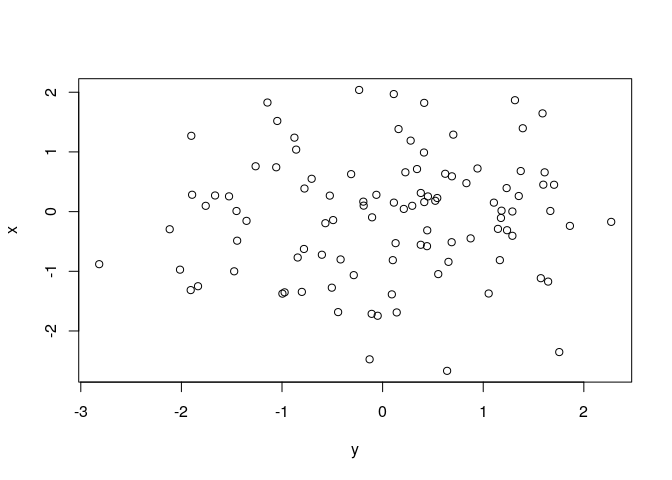
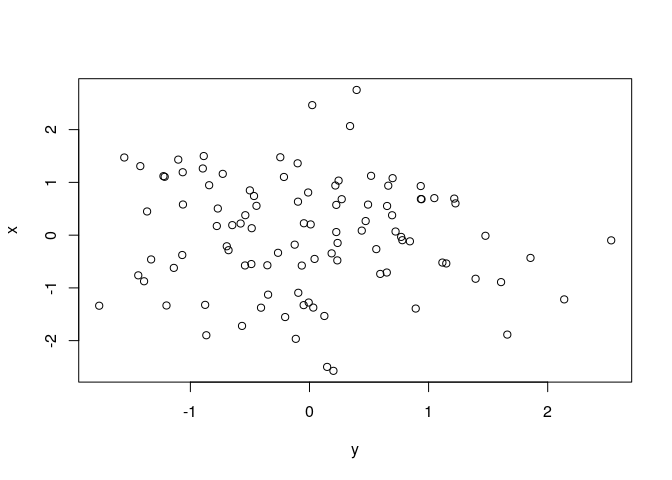
Added git to RStudio

diff --git a/index.md b/index.md
@@ -35,21 +35,28 @@ summary(model)
     ## 
     ## Residuals:
     ##      Min       1Q   Median       3Q      Max 
-    ## -2.19400 -0.62118  0.06202  0.48526  2.93268 
+    ## -2.45807 -0.50716 -0.03206  0.59792  2.21960 
     ## 
     ## Coefficients:
     ##             Estimate Std. Error t value Pr(>|t|)    
-    ## (Intercept)  3.06883    0.09144   33.56   <2e-16 ***
-    ## x            5.01343    0.10344   48.47   <2e-16 ***
+    ## (Intercept)  2.87708    0.09860   29.18   <2e-16 ***
+    ## x            4.88800    0.09284   52.65   <2e-16 ***
     ## ---
     ## Signif. codes:  0 '***' 0.001 '**' 0.01 '*' 0.05 '.' 0.1 ' ' 1
     ## 
-    ## Residual standard error: 0.913 on 98 degrees of freedom
-    ## Multiple R-squared:  0.9599, Adjusted R-squared:  0.9595 
-    ## F-statistic:  2349 on 1 and 98 DF,  p-value: < 2.2e-16
+    ## Residual standard error: 0.9854 on 98 degrees of freedom
+    ## Multiple R-squared:  0.9659, Adjusted R-squared:  0.9655 
+    ## F-statistic:  2772 on 1 and 98 DF,  p-value: < 2.2e-16
 
 ``` r
 plot(y, x)
 ```
 
 ![](index_files/figure-markdown_github/unnamed-chunk-3-1.png)
+
+``` r
+summary(x)
+```
+
+    ##     Min.  1st Qu.   Median     Mean  3rd Qu.     Max. 
+    ## -2.93195 -0.79397  0.09124 -0.03526  0.55111  2.52679
